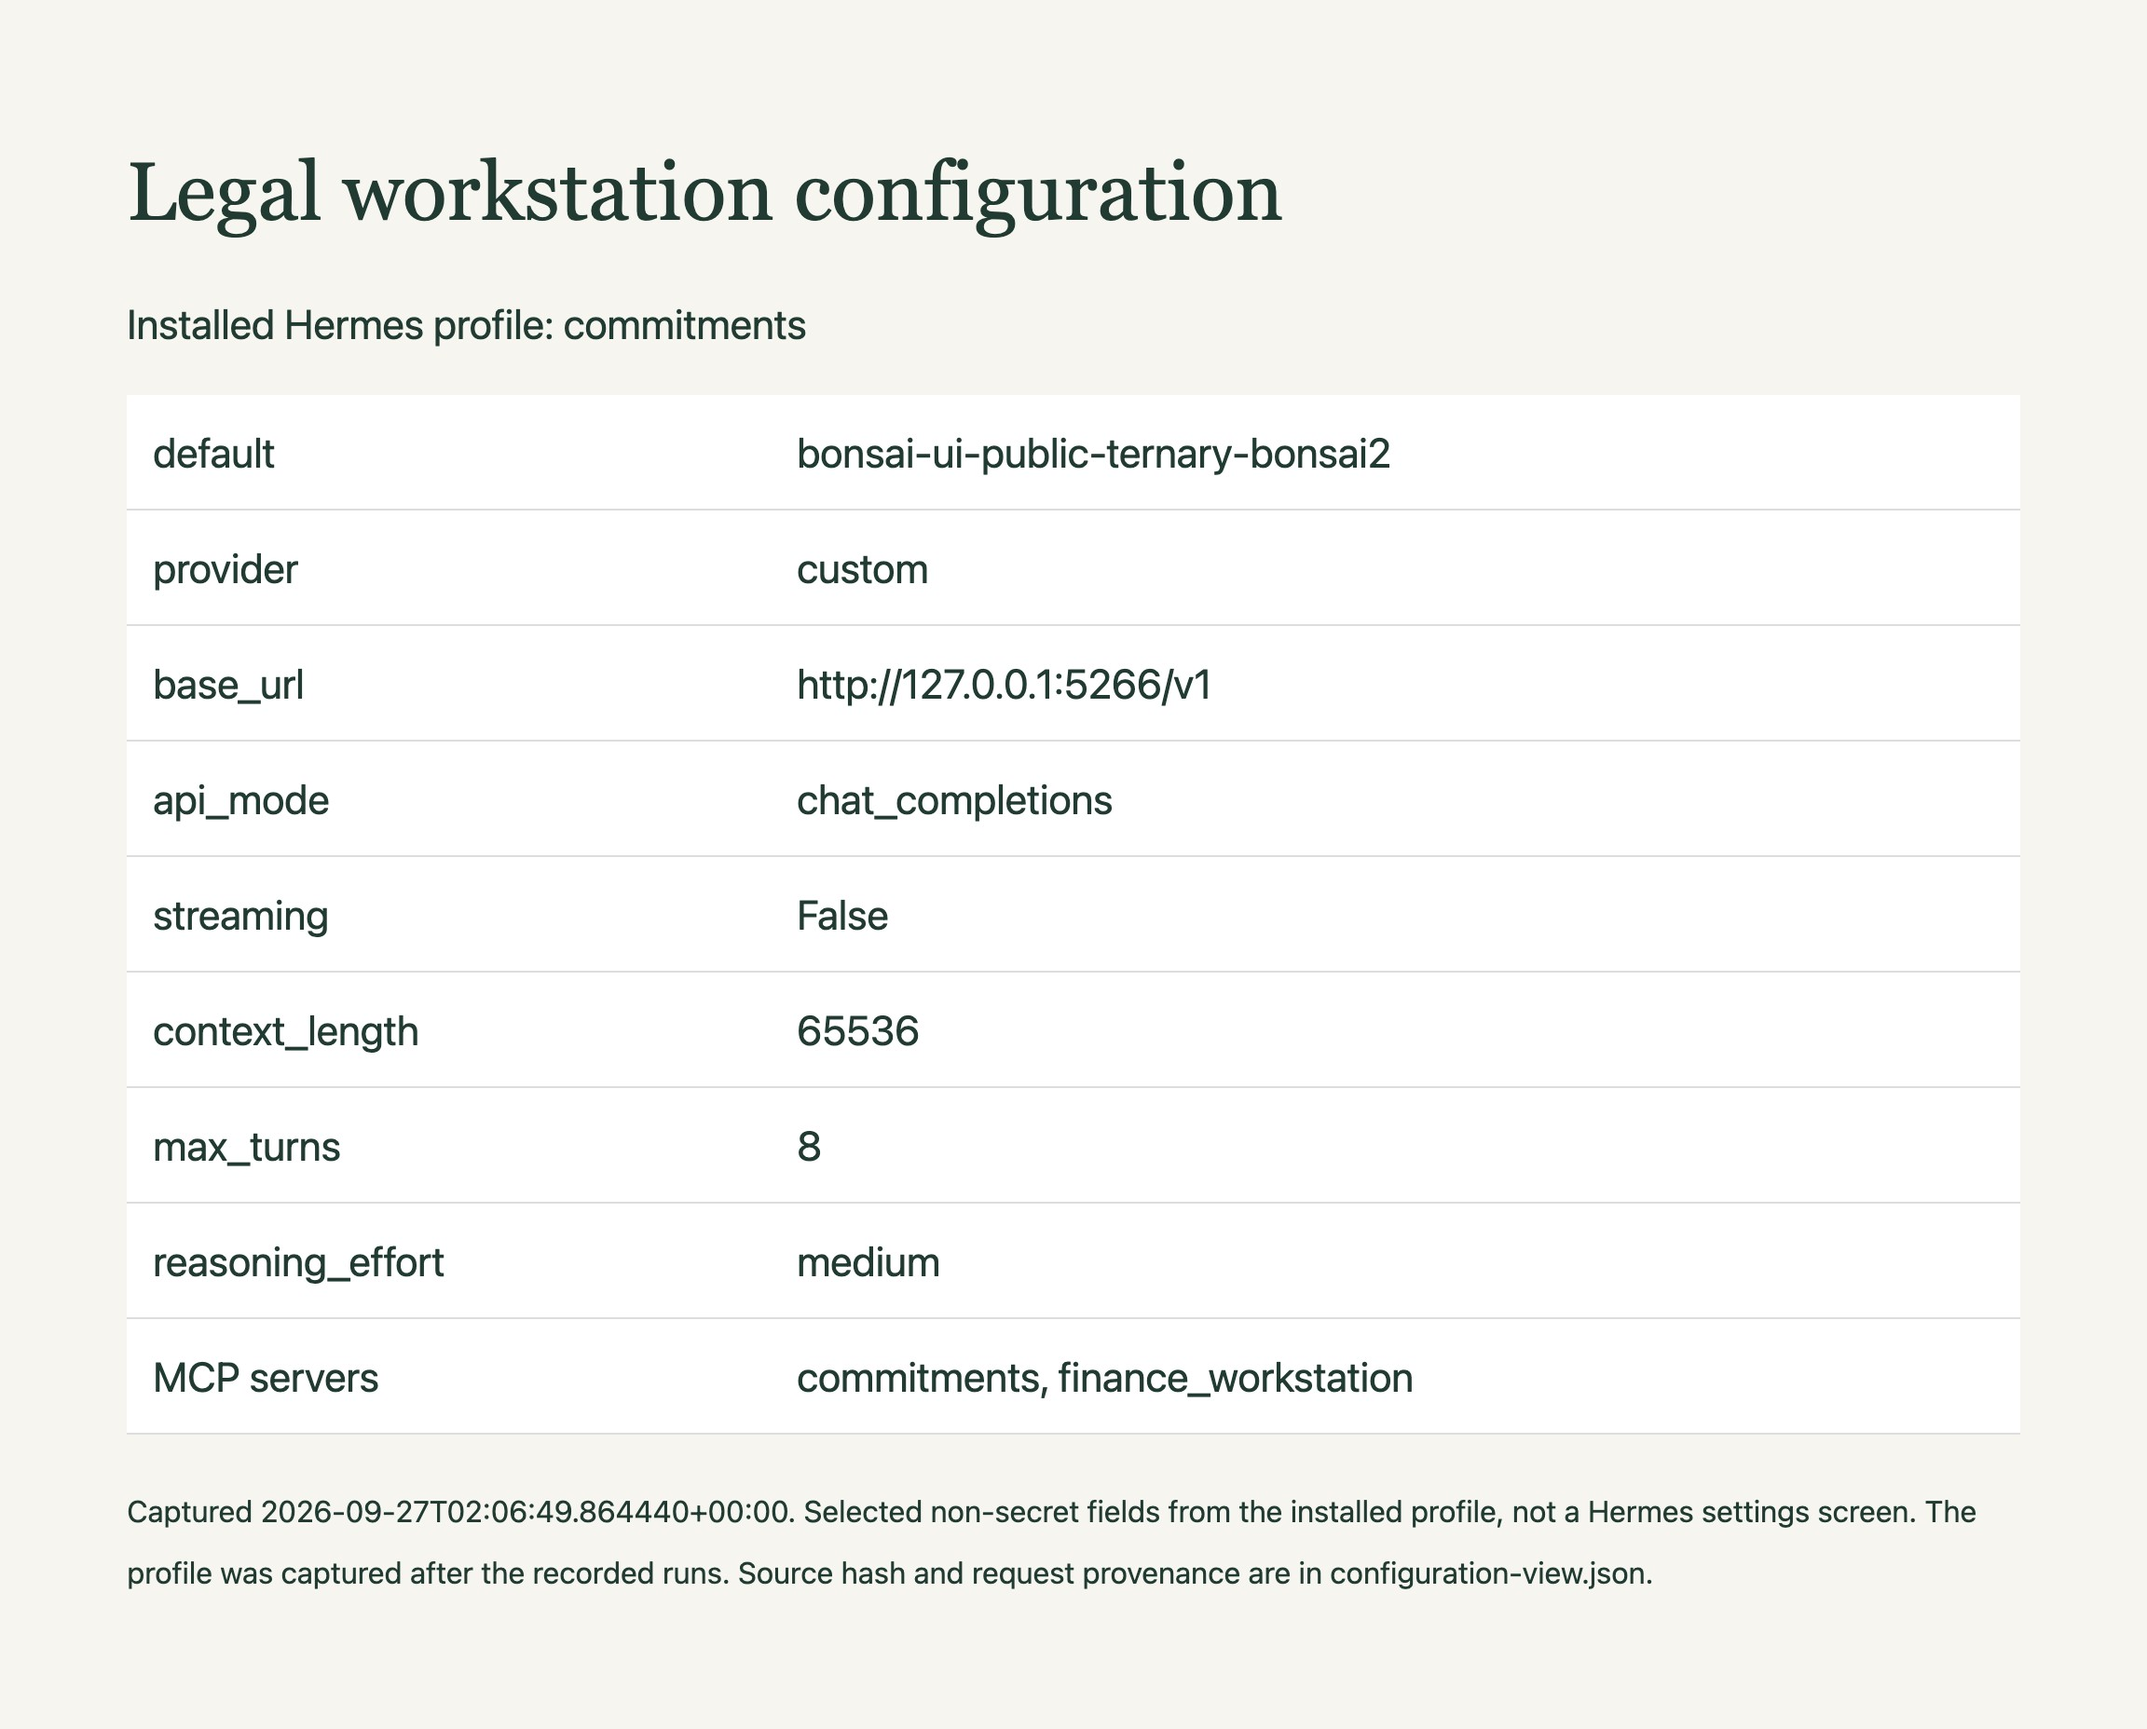
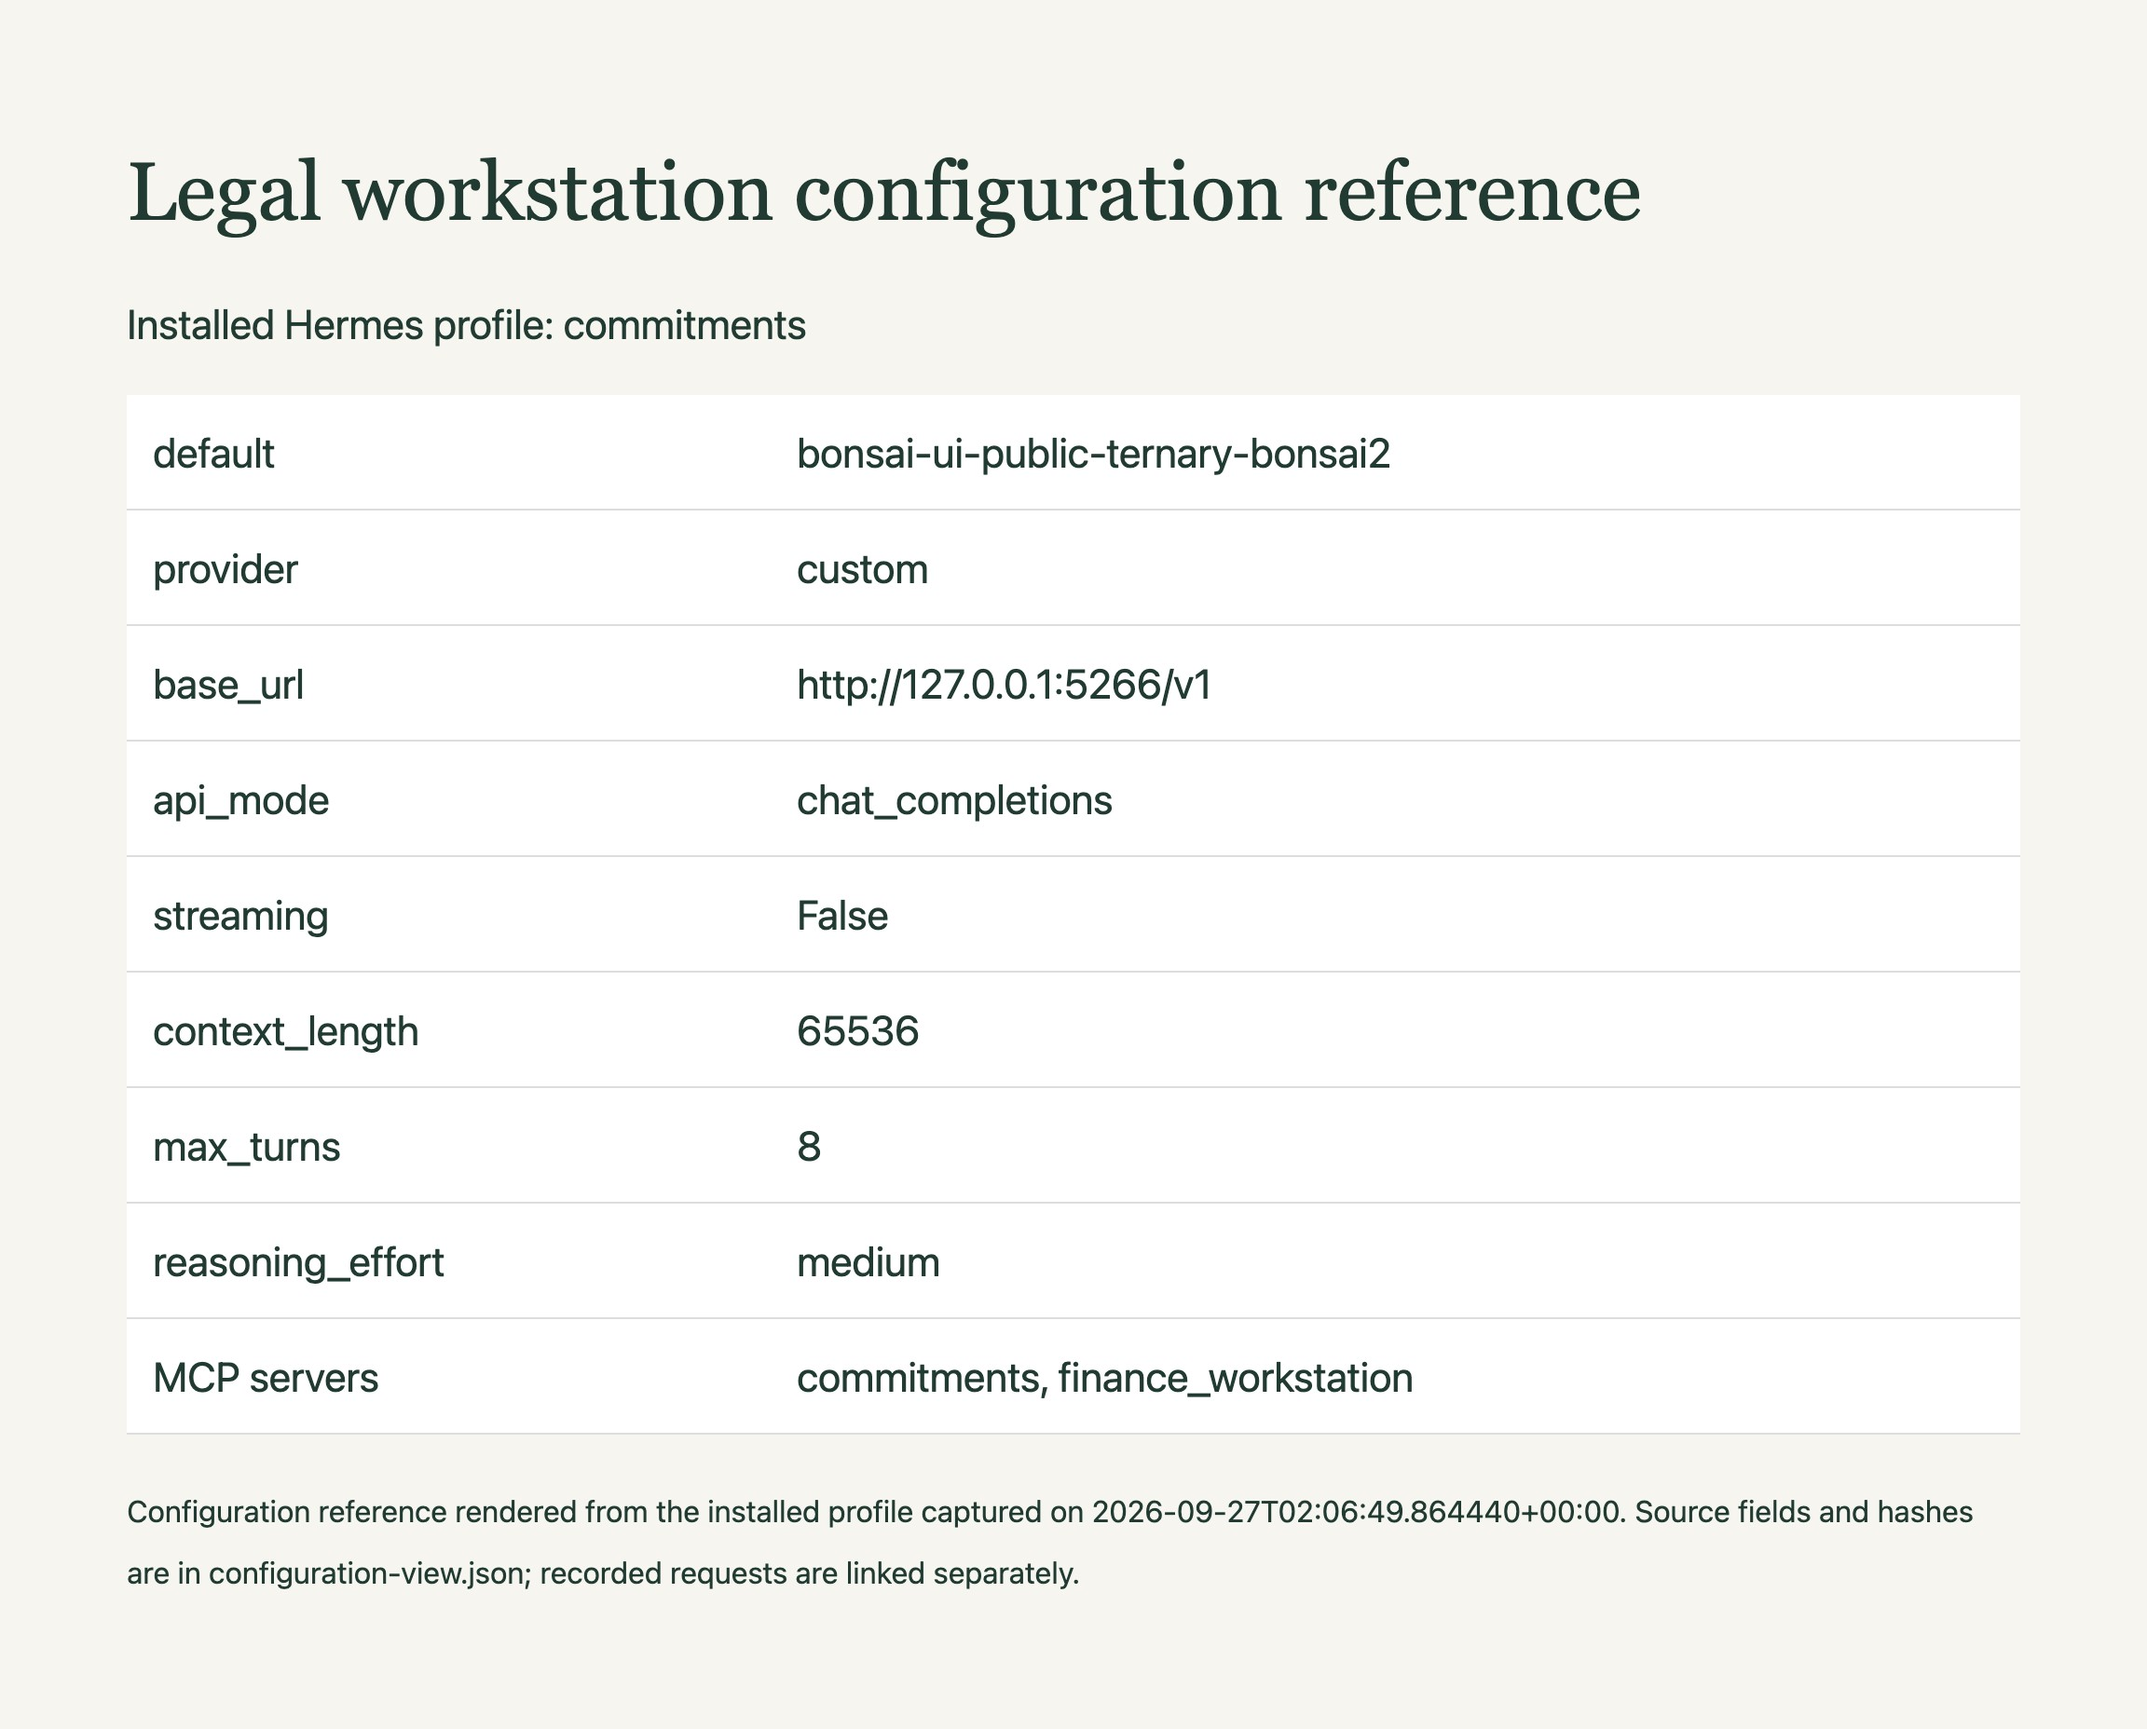
Clarify configuration provenance captions

Changed region(s): [[0.0625, 0.8438, 0.7812, 0.9375], [0.5938, 0.0938, 0.7812, 0.125], [0.8125, 0.8438, 0.9062, 0.9062]]

diff --git a/evidence/configuration-view.html b/evidence/configuration-view.html
@@ -1,1 +1,1 @@
-<!doctype html><html><meta charset="utf-8"><title>legal-workstation configuration</title><style>body{font:22px/1.5 system-ui;background:#f6f5ef;color:#173b31;padding:40px 60px}h1{font:44px Georgia}table{width:100%;border-collapse:collapse;background:white}td{padding:14px;border-bottom:1px solid #ddd}td:first-child{width:34%}small{font-size:16px}pre{font-size:18px}</style><h1>Legal workstation configuration</h1><p>Installed Hermes profile: commitments</p><table><tr><td>default</td><td>bonsai-ui-public-ternary-bonsai2</td></tr><tr><td>provider</td><td>custom</td></tr><tr><td>base_url</td><td>http://127.0.0.1:5266/v1</td></tr><tr><td>api_mode</td><td>chat_completions</td></tr><tr><td>streaming</td><td>False</td></tr><tr><td>context_length</td><td>65536</td></tr><tr><td>max_turns</td><td>8</td></tr><tr><td>reasoning_effort</td><td>medium</td></tr><tr><td>MCP servers</td><td>commitments, finance_workstation</td></tr></table><p><small>Captured 2026-09-27T02:06:49.864440+00:00. Selected non-secret fields from the installed profile, not a Hermes settings screen. The profile was captured after the recorded runs. Source hash and request provenance are in configuration-view.json.</small></p></html>
+<!doctype html><html><meta charset="utf-8"><title>legal-workstation configuration</title><style>body{font:22px/1.5 system-ui;background:#f6f5ef;color:#173b31;padding:40px 60px}h1{font:44px Georgia}table{width:100%;border-collapse:collapse;background:white}td{padding:14px;border-bottom:1px solid #ddd}td:first-child{width:34%}small{font-size:16px}pre{font-size:18px}</style><h1>Legal workstation configuration reference</h1><p>Installed Hermes profile: commitments</p><table><tr><td>default</td><td>bonsai-ui-public-ternary-bonsai2</td></tr><tr><td>provider</td><td>custom</td></tr><tr><td>base_url</td><td>http://127.0.0.1:5266/v1</td></tr><tr><td>api_mode</td><td>chat_completions</td></tr><tr><td>streaming</td><td>False</td></tr><tr><td>context_length</td><td>65536</td></tr><tr><td>max_turns</td><td>8</td></tr><tr><td>reasoning_effort</td><td>medium</td></tr><tr><td>MCP servers</td><td>commitments, finance_workstation</td></tr></table><p><small>Configuration reference rendered from the installed profile captured on 2026-09-27T02:06:49.864440+00:00. Source fields and hashes are in configuration-view.json; recorded requests are linked separately.</small></p></html>

diff --git a/docs/recorded-configuration.md b/docs/recorded-configuration.md
@@ -2,8 +2,8 @@
 
 ![Selected installed Hermes configuration](images/configuration.jpg)
 
-The image shows selected fields from the installed `commitments` profile. It is a configuration reference rendered from actual saved settings, not a Hermes application screen. The [source record](../evidence/configuration-view.json) includes the capture time and SHA-256 of the source profile. Credentials, tool environments and local paths are excluded. The profile was captured after the runs, so it does not independently prove the exact configuration of an earlier run.
+The image is a configuration reference rendered from selected fields in the installed `commitments` profile. The [source record](../evidence/configuration-view.json) records the capture time and profile hash. This snapshot was captured after the runs; use the linked HTTP exchanges to inspect settings applied to a recorded request.
 
 Create an isolated profile with the repository setup command, then inspect its model endpoint and MCP tool paths before starting the gateway or scheduler. Setup templates and the installed profile can differ. A service using an existing profile must reload after its configuration changes.
 
-The model alias alone does not establish the GGUF, runtime build or effective sampling values. Use the launch guide and recorded HTTP requests to check those separately. No matched optimization or cost reduction is established by this screenshot.
+Use the launch guide to match the GGUF and runtime build, then inspect the recorded HTTP request for the effective sampling values.
